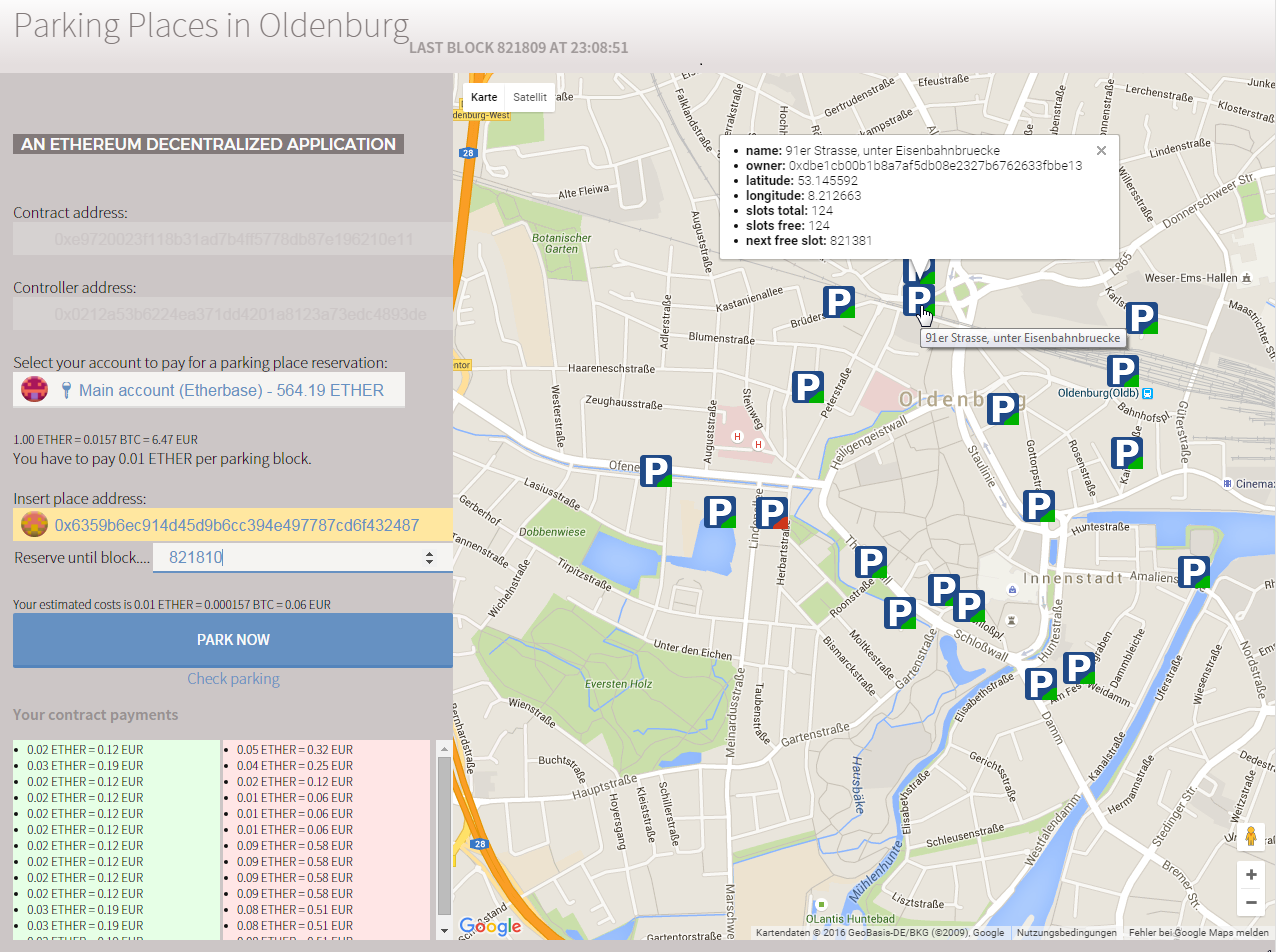
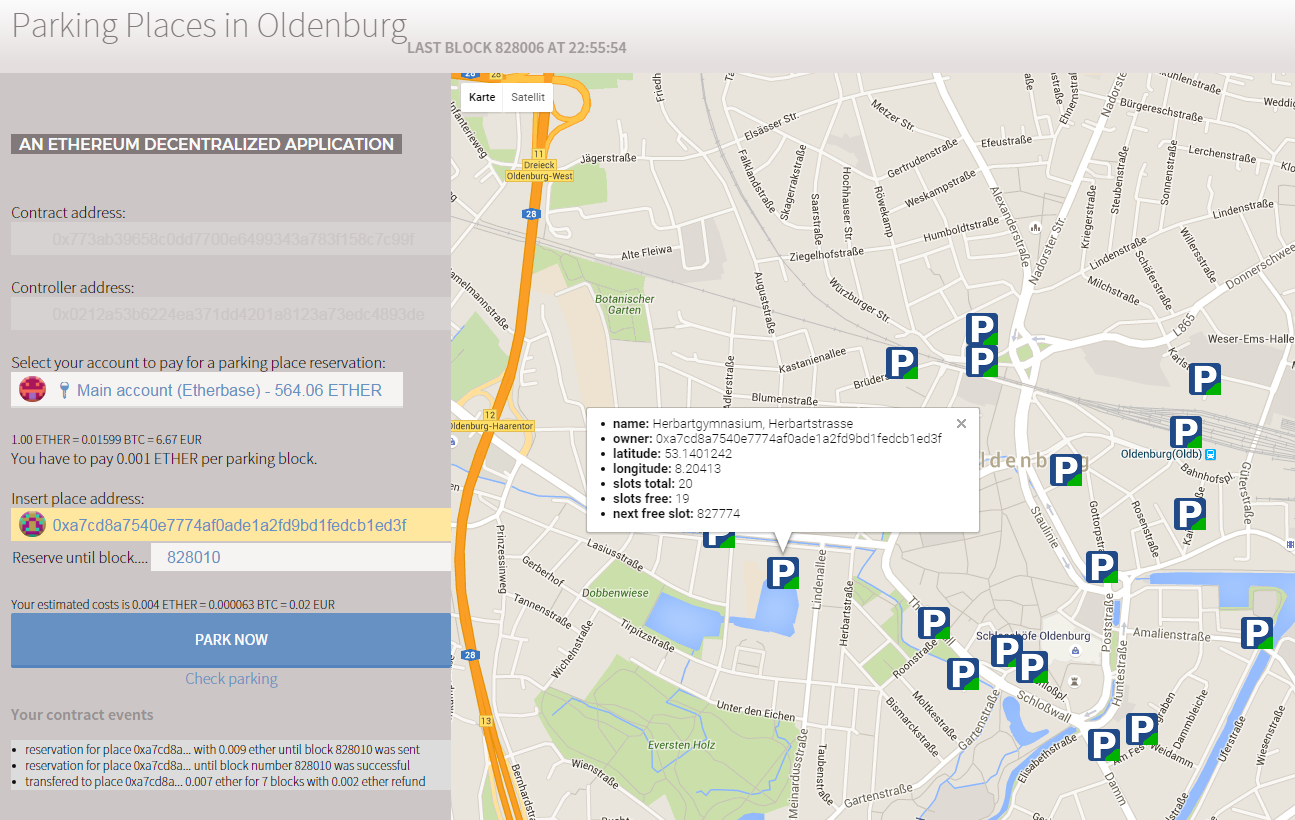
update readme with new contract address and dapp picture

diff --git a/parking-dapp/README.md b/parking-dapp/README.md
@@ -66,7 +66,7 @@ You should your own deployed contract cause this is volatile. Then you should ch
     //rpc address of ethereum client
     const ETH_RPC_ADDRESS = 'http://localhost:8545';
     //contract address
-    const CONTRACT_ADDRESS = "0xe9720023f118b31ad7b4ff5778db87e196210e11";
+    const CONTRACT_ADDRESS = "0x773ab39658c0dd7700e6499343a783f158c7c99f";
 
 ## Detailled description
 One screen with a short description of all elements.
